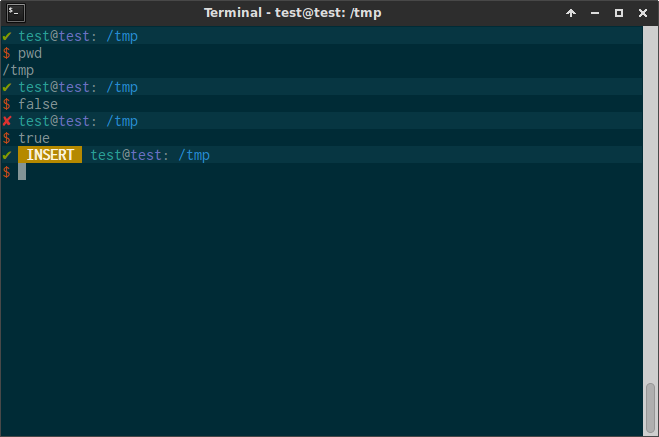
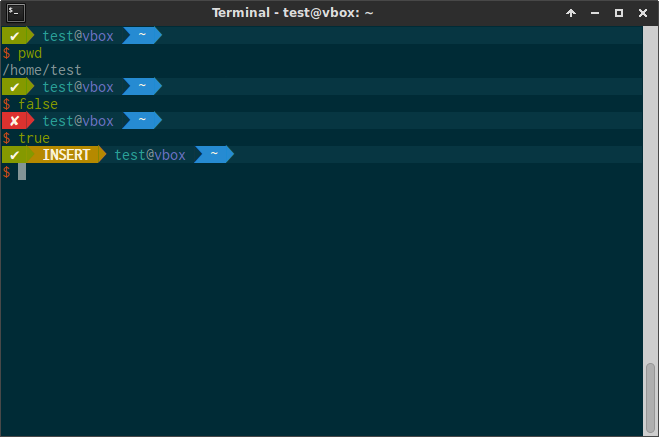
deployment fixes and new screenshot

Changed region(s): [[0.0, 0.0595, 0.3642, 0.3867], [0.3035, 0.0, 0.5766, 0.0595], [0.9712, 0.833, 1.0, 0.8924]]

diff --git a/README.md b/README.md
@@ -13,6 +13,7 @@ This configuration uses prezto zsh as a base with the following modifications:
 - prompt with the status of the last command and vi-mode in the last prompt
 - prompt with a background color line to separate command executions
 - deactivated some prezto modules I do not use
+- powerline symbols in the prompt
 
 # screenshots
 
